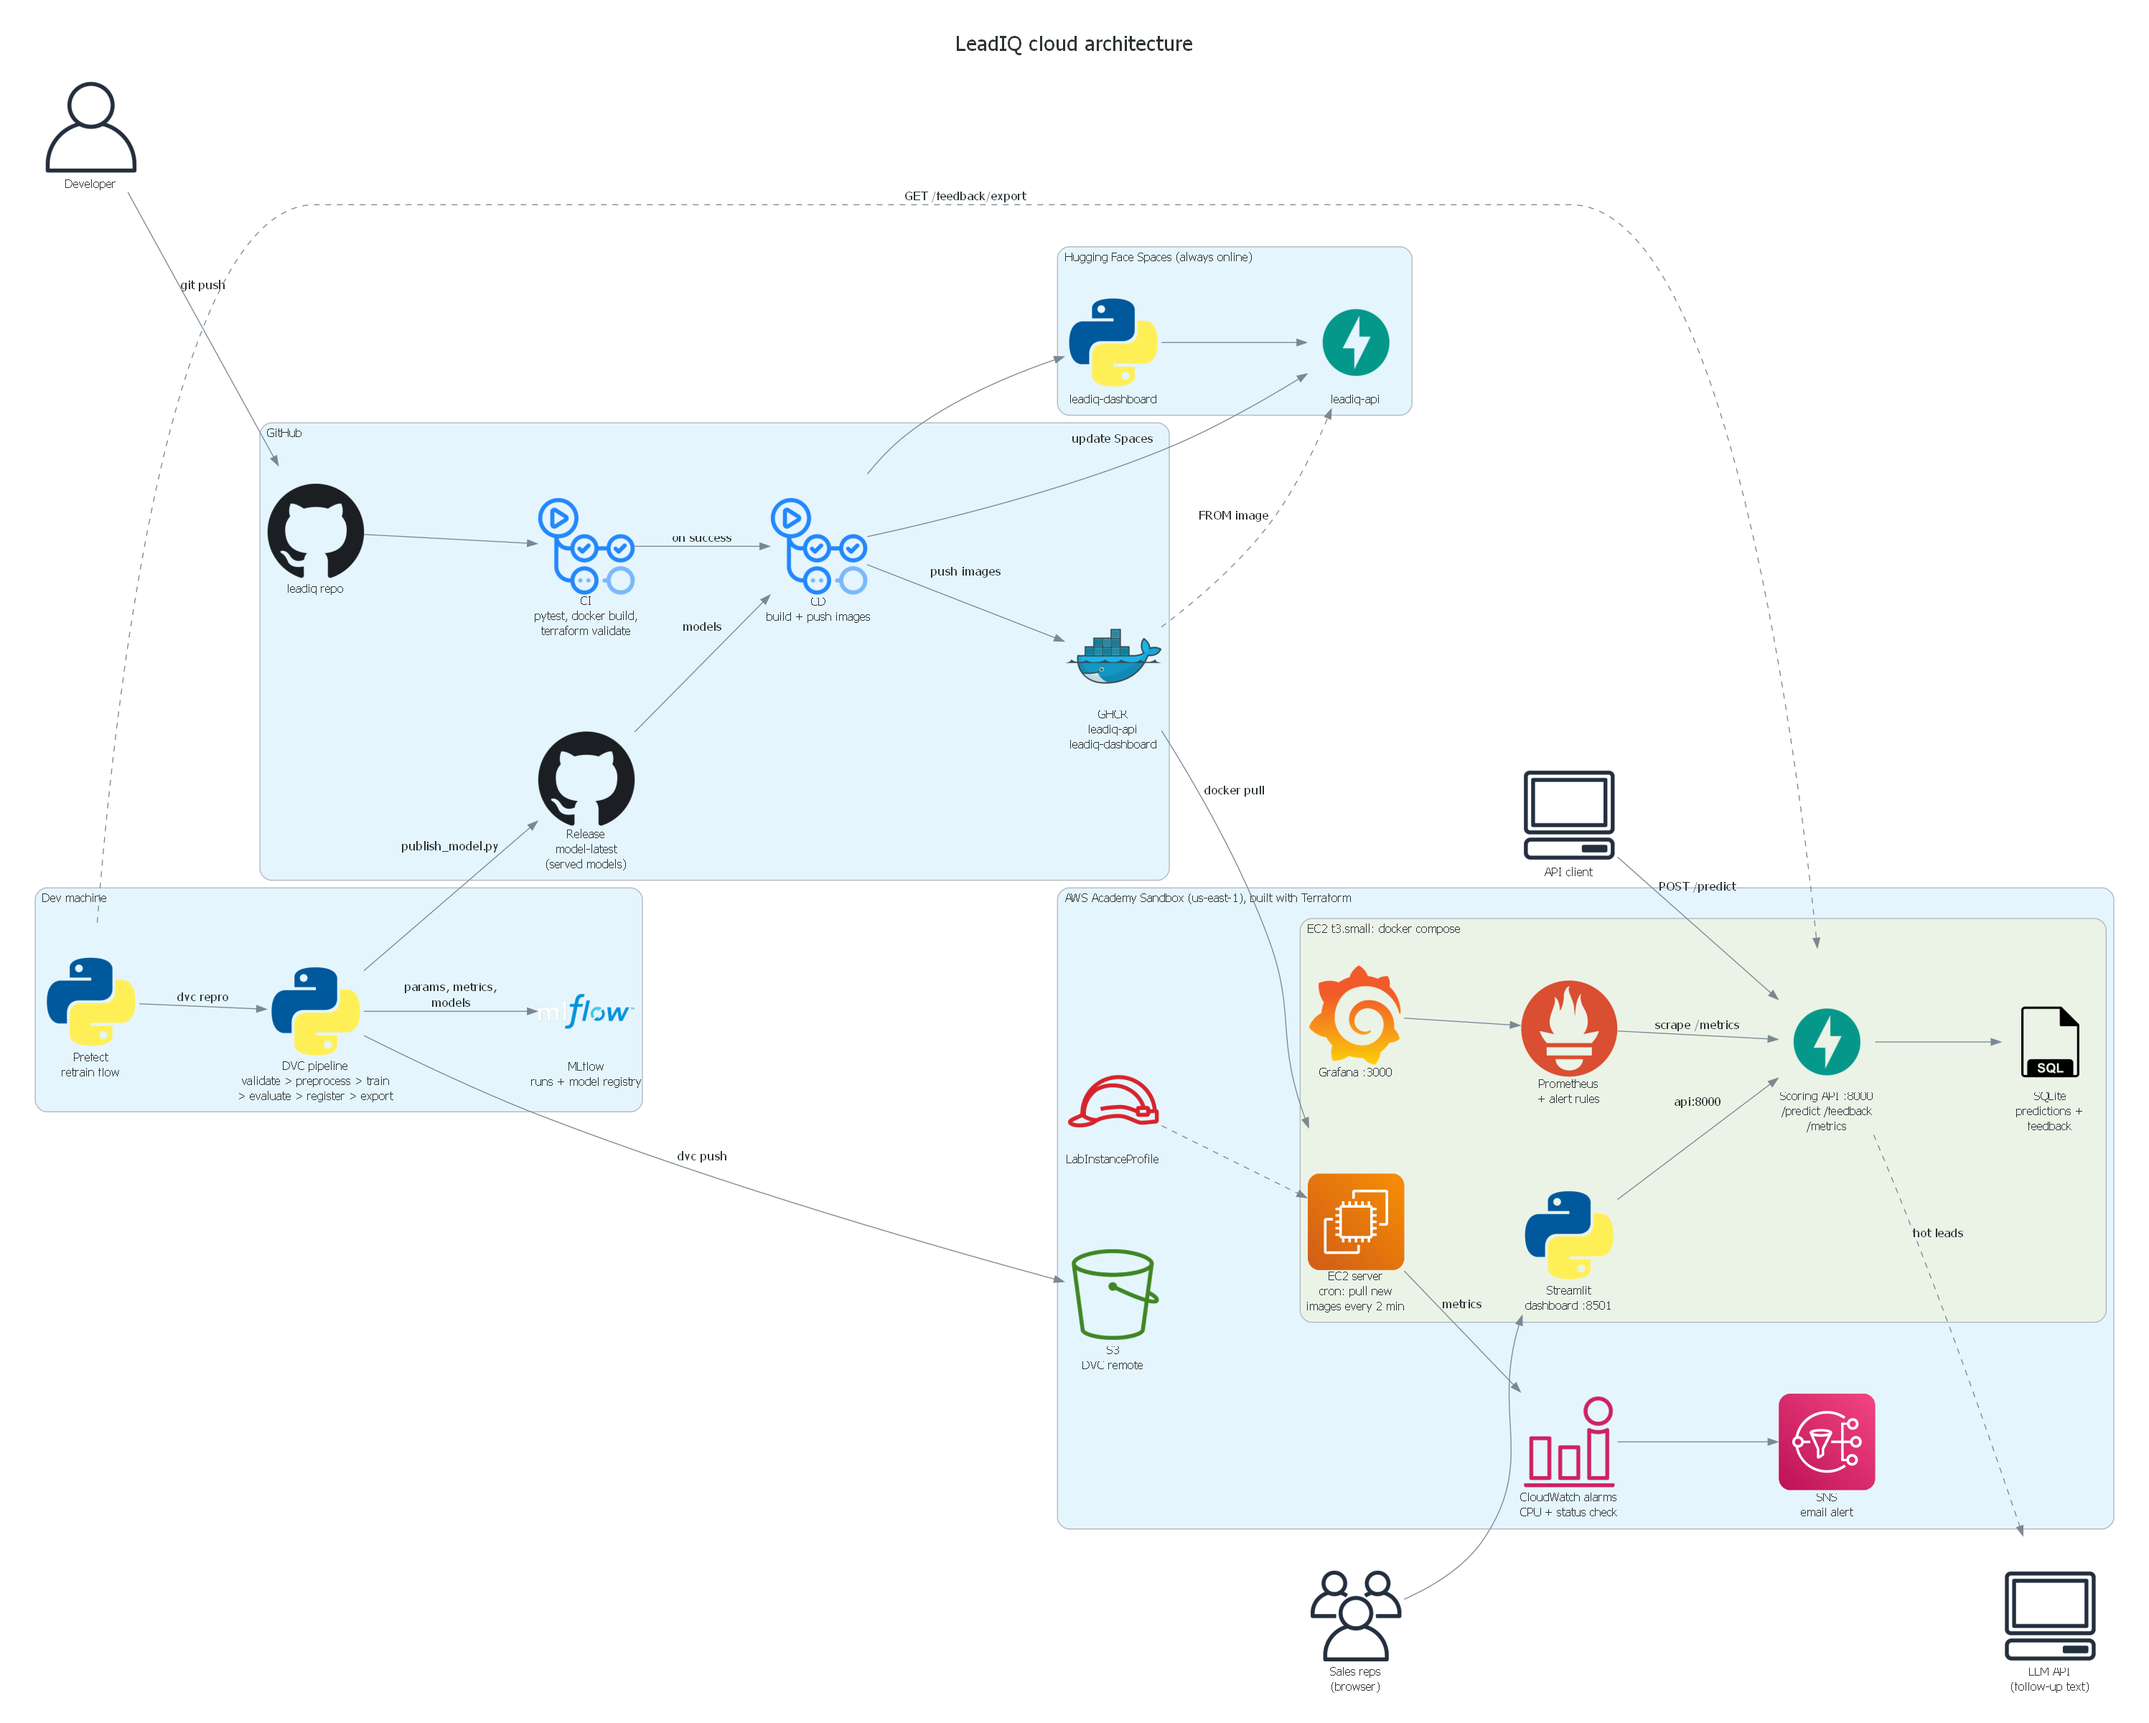
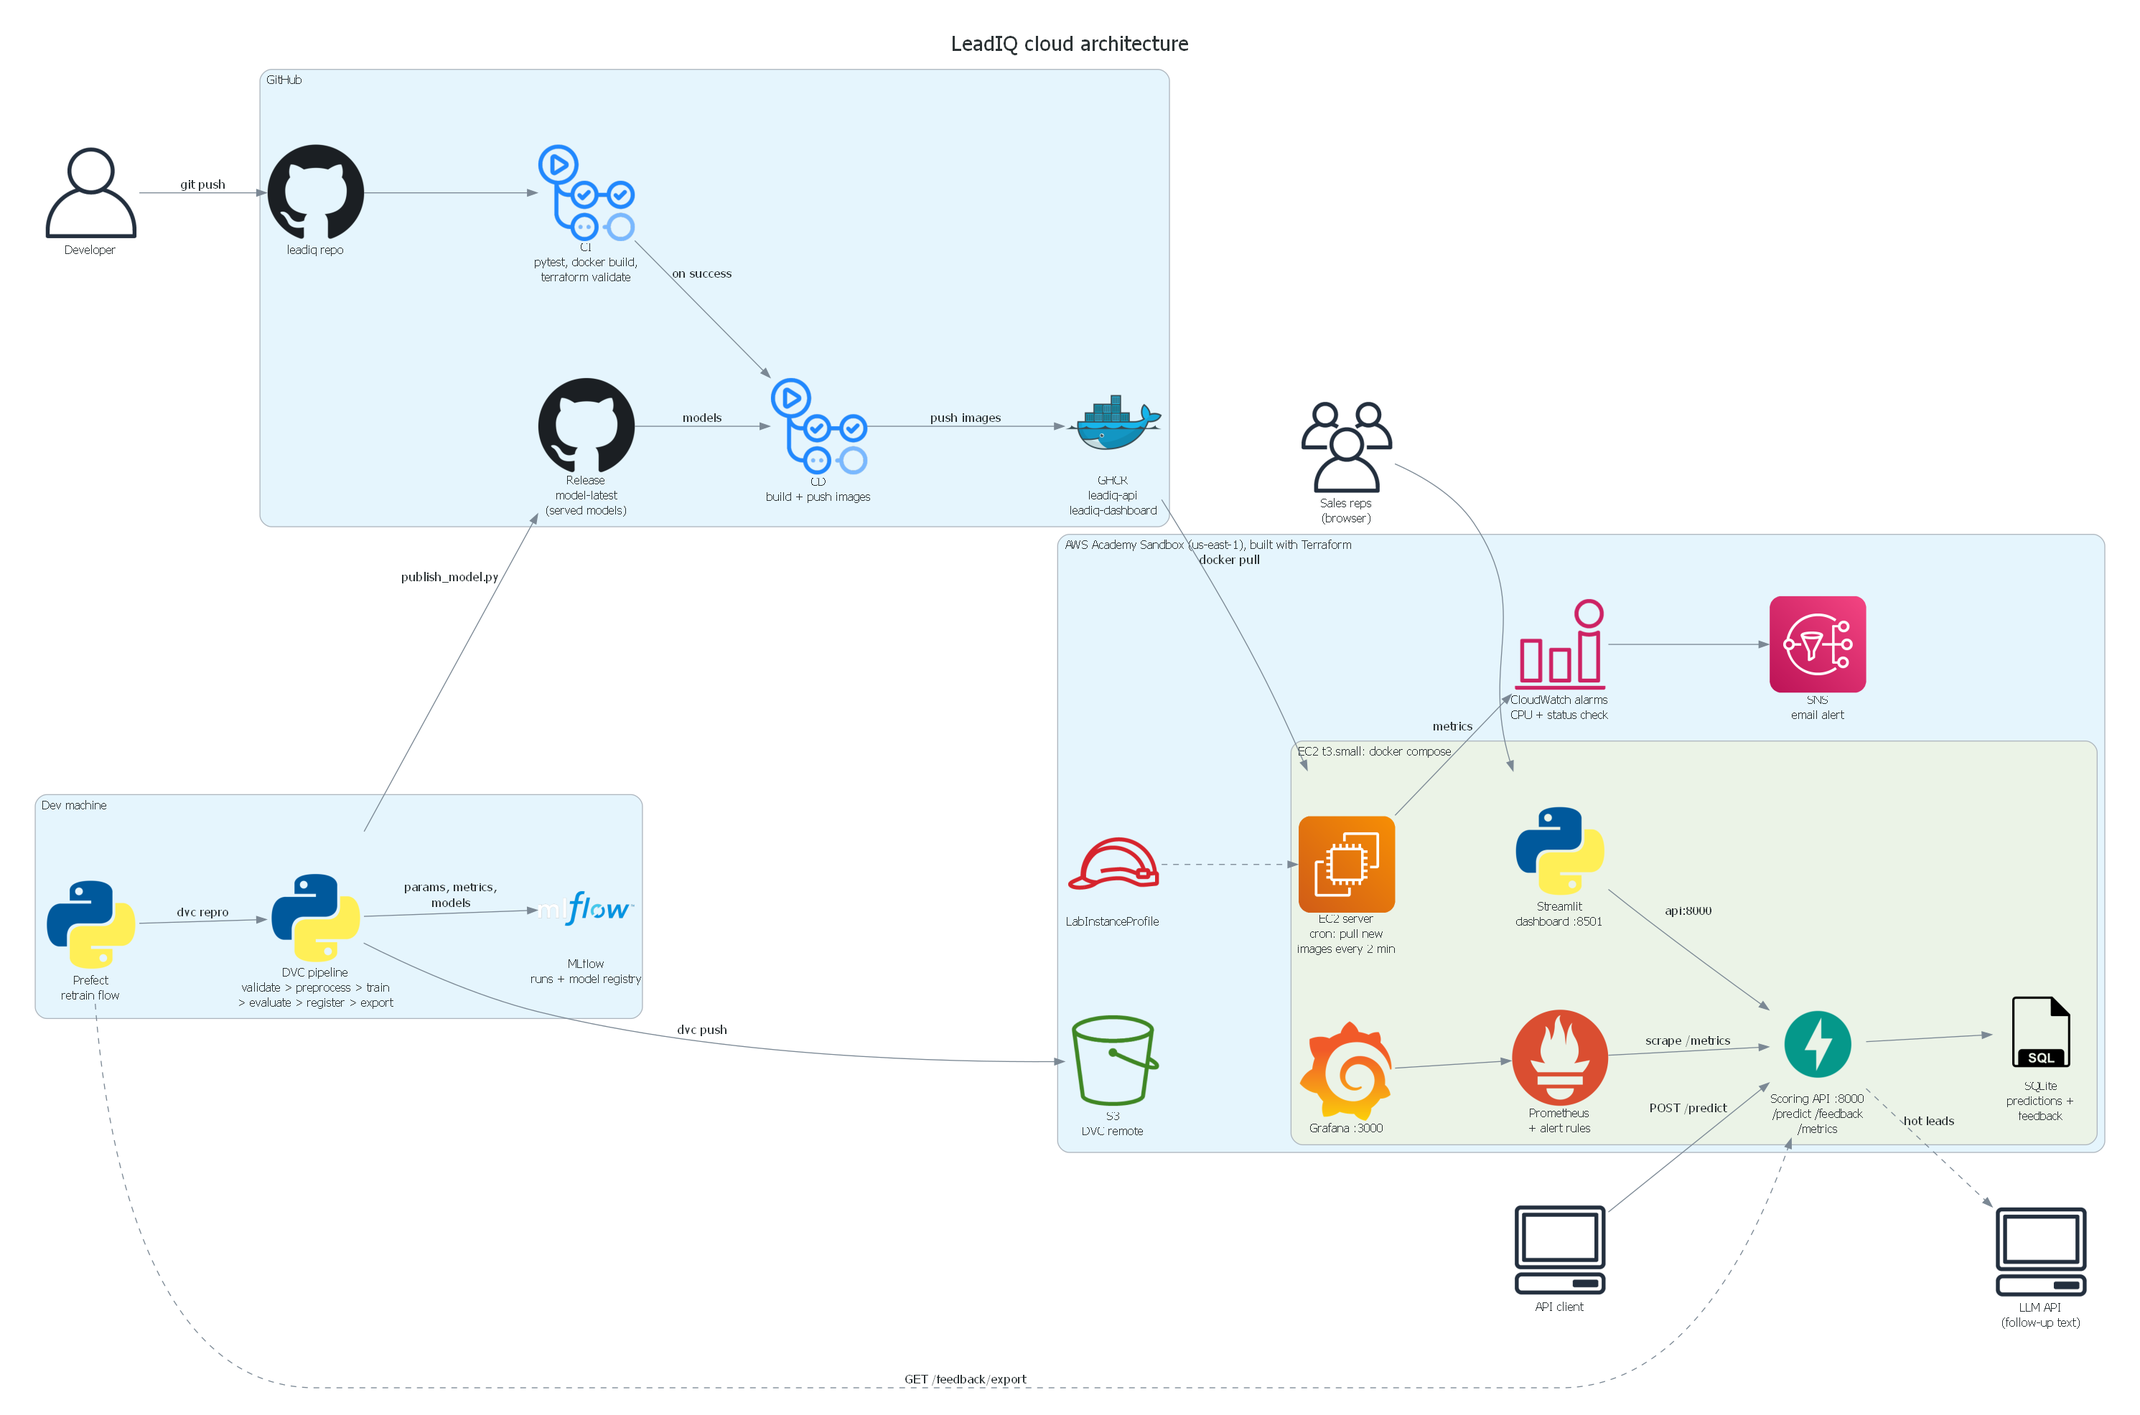
Drop Hugging Face deployment, add AWS live demo screenshots
Hugging Face now requires a paid plan for Docker Spaces, so the app is
deployed only on the AWS Academy Sandbox. README shows the live AWS
deployment (dashboard and Grafana) and the diagram no longer has HF.

diff --git a/docs/architecture.py b/docs/architecture.py
@@ -56,10 +56,6 @@ with Diagram("LeadIQ cloud architecture", filename="docs/architecture", show=Fal
             prometheus = Prometheus("Prometheus\n+ alert rules")
             grafana = Grafana("Grafana :3000")
 
-    with Cluster("Hugging Face Spaces (always online)"):
-        hf_api = Fastapi("leadiq-api")
-        hf_dash = Python("leadiq-dashboard")
-
     llm = Client("LLM API\n(follow-up text)")
 
     # Training and model publishing
@@ -74,9 +70,6 @@ with Diagram("LeadIQ cloud architecture", filename="docs/architecture", show=Fal
     release >> Edge(label="models") >> cd
     cd >> Edge(label="push images") >> ghcr
     ghcr >> Edge(label="docker pull") >> ec2
-    cd >> Edge(label="update Spaces") >> hf_api
-    cd >> hf_dash
-    ghcr >> Edge(label="FROM image", style="dashed") >> hf_api
 
     # Serving on AWS
     role >> Edge(style="dashed") >> ec2
@@ -87,4 +80,3 @@ with Diagram("LeadIQ cloud architecture", filename="docs/architecture", show=Fal
     prometheus >> Edge(label="scrape /metrics") >> api
     grafana >> prometheus
     ec2 >> Edge(label="metrics") >> alarm >> sns
-    hf_dash >> hf_api

diff --git a/README.md b/README.md
@@ -96,7 +96,6 @@ Each machine keeps its own MLflow store (`mlflow.db`). After `dvc pull`, run `dv
 
 1. Downloads the served models from the GitHub release `model-latest`.
 2. Builds the API and dashboard images and pushes them to GitHub Container Registry (`ghcr.io/taha-nu/leadiq-api`, `leadiq-dashboard`).
-3. Updates the Hugging Face Spaces.
 
 The AWS server picks up the new images by itself within 2 minutes (`deploy/update.sh` runs from cron), so GitHub needs no AWS credentials.
 
@@ -122,7 +121,17 @@ dvc remote add -d -f storage $(terraform output -raw dvc_remote) && dvc push
 
 `terraform output` prints the dashboard, API docs and Grafana links.
 
-**Hugging Face Spaces (always online).** `deploy/hf_spaces.py` runs the same images as two Docker Spaces, `leadiq-api` and `leadiq-dashboard`. This needs a GitHub secret `HF_TOKEN` (a Hugging Face write token) and a variable `HF_USERNAME`.
+## Live demo on AWS
+
+The Sandbox deletes everything when a lab session ends, so the live links exist only during a session. Each session gets a new public IP, which `terraform output` prints. These screenshots are from the deployment on 27 Nov 2026 (EC2 at 3.222.188.159).
+
+Dashboard on AWS, scoring a lead with its top reasons:
+
+![Dashboard on AWS](docs/aws_dashboard.jpg)
+
+Grafana on AWS (request rate, p95 latency, error rate, firing alerts, leads by band, champion vs canary):
+
+![Grafana on AWS](docs/aws_grafana.jpg)
 
 ## Screenshots
 
@@ -146,7 +155,7 @@ Top drivers of conversion (SHAP):
 ├── dashboard/           # Streamlit dashboard
 ├── flows/               # Prefect retraining flow
 ├── docker/              # Dockerfiles; docker-compose.yml (local) and docker-compose.prod.yml (AWS) at the root
-├── deploy/              # server auto-update script, Hugging Face Spaces deploy
+├── deploy/              # server auto-update script (pull-based deployment)
 ├── monitoring/          # Prometheus config + alerts, Grafana dashboard
 ├── infra/terraform/     # AWS infrastructure (EC2, S3, CloudWatch, SNS)
 ├── tests/               # pytest (cleaning logic + API)
